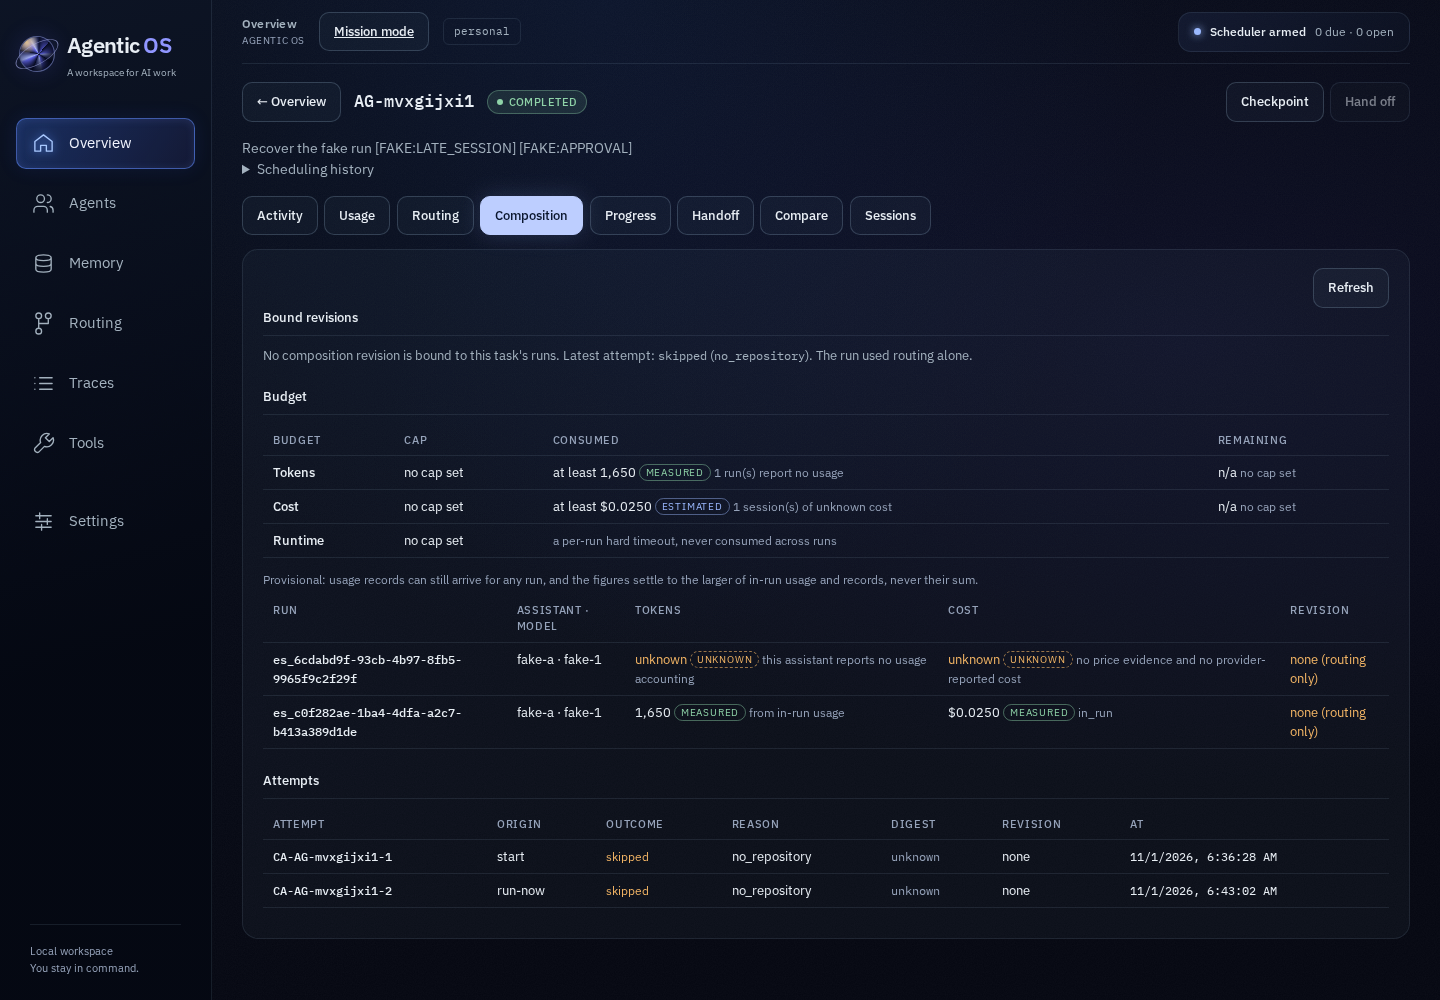
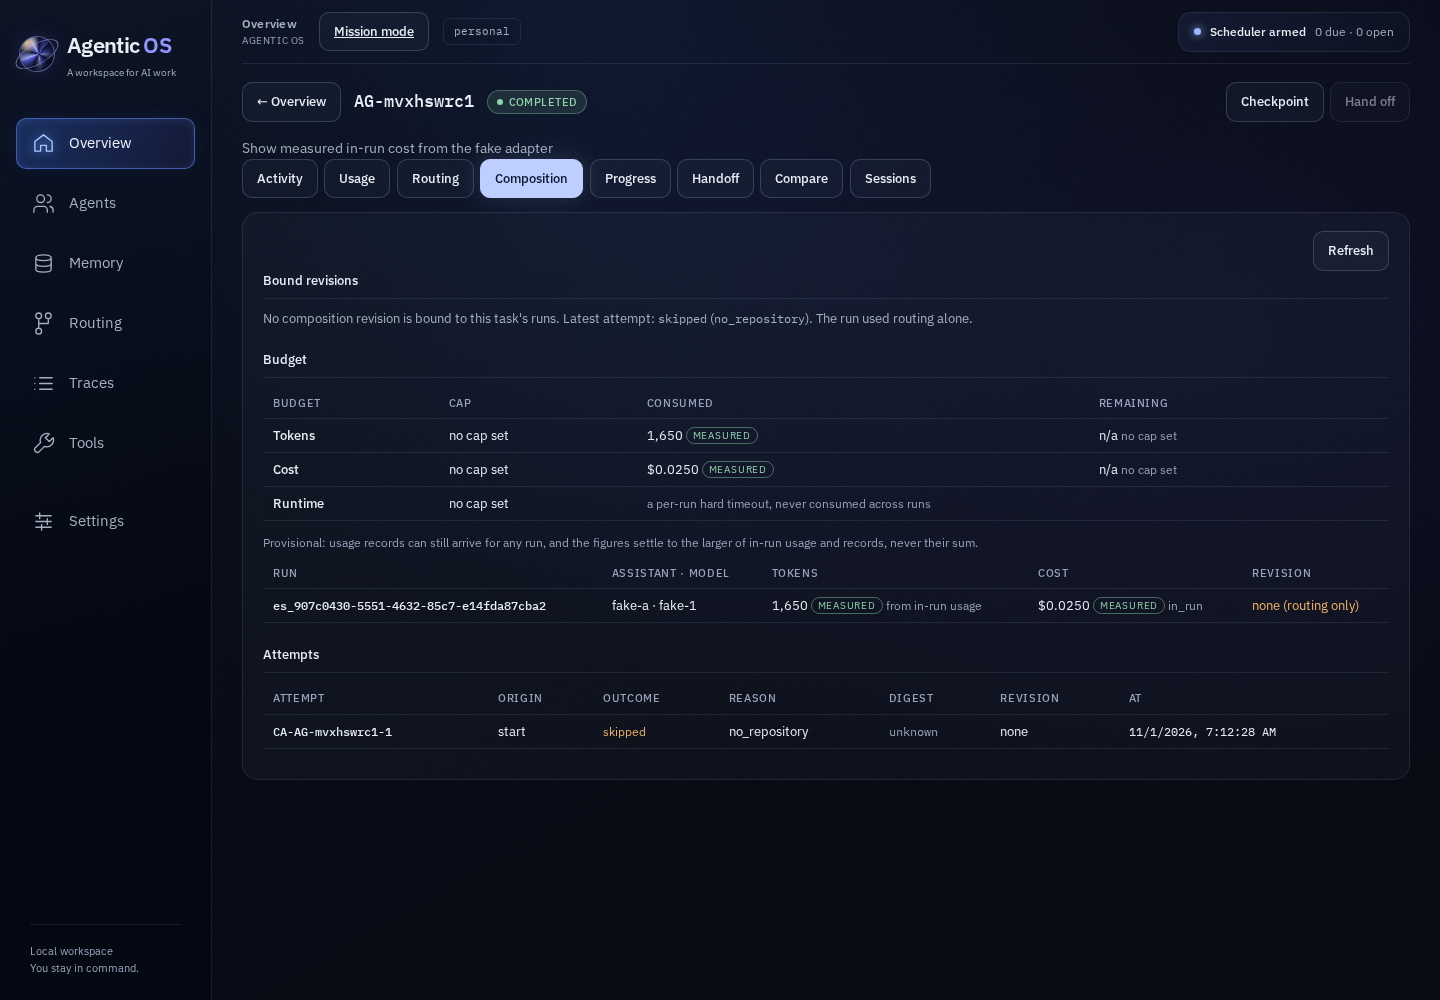
docs(web): record final gates and fresh measured cost drive

diff --git a/apps/web/evidence/restart-cost-basis/README.md b/apps/web/evidence/restart-cost-basis/README.md
@@ -24,15 +24,19 @@ Screenshots:
 - [Completed continuation](restart-completed.png)
 - [Measured cost with `in_run` beside the method](measured-in-run.png)
 
-The interrupted session has unknown cost. The continuation has measured $0.025
-with basis `in_run`. The task aggregate remains a lower bound because of that
-unknown session; the UI preserves the server's aggregate method.
+The interrupted session has unknown cost. Its continuation has measured $0.025
+with basis `in_run`, while that task's aggregate remains a lower bound.
+Then a fresh single-run task, `AG-mvxhswrc1`, completed with 1,650 tokens,
+measured $0.025, no unknown-cost sessions and `cost.basis: in_run`.
+The measured-cost screenshot shows this fresh task, including its measured
+task aggregate and its per-run basis.
 
 Raw bounded capture (no credentials or provider transcript):
 
 ```text
 kill -9 API child 2008640; task AG-mvxgijxi1
 {"taskId":"AG-mvxgijxi1","state":"COMPLETED","costs":[{"method":"unknown"},{"method":"measured","usd":0.025,"basis":"in_run"}]}
+{"taskId":"AG-mvxhswrc1","state":"COMPLETED","cost":{"method":"measured","usd":0.025,"basis":"in_run"}}
 ```
 
 ## Reproduce
@@ -75,3 +79,7 @@ The focused browser coverage passed (2 tests), and all 100 web unit tests passed
 `pnpm test` was run twice. The retry stopped in core with 3 timing assertions
 failing and 586 tests passing. See the [raw capture](core-gate-failure.txt).
 Those thresholds and all core code are unchanged in this web-only branch.
+
+Final `pnpm typecheck`, `pnpm lint`, and the complete Chromium gate
+(`pnpm --filter @agent-plane/web test:e2e`, 50 tests) passed. The PR remains
+draft because the required `pnpm test` gate above is still failing.
